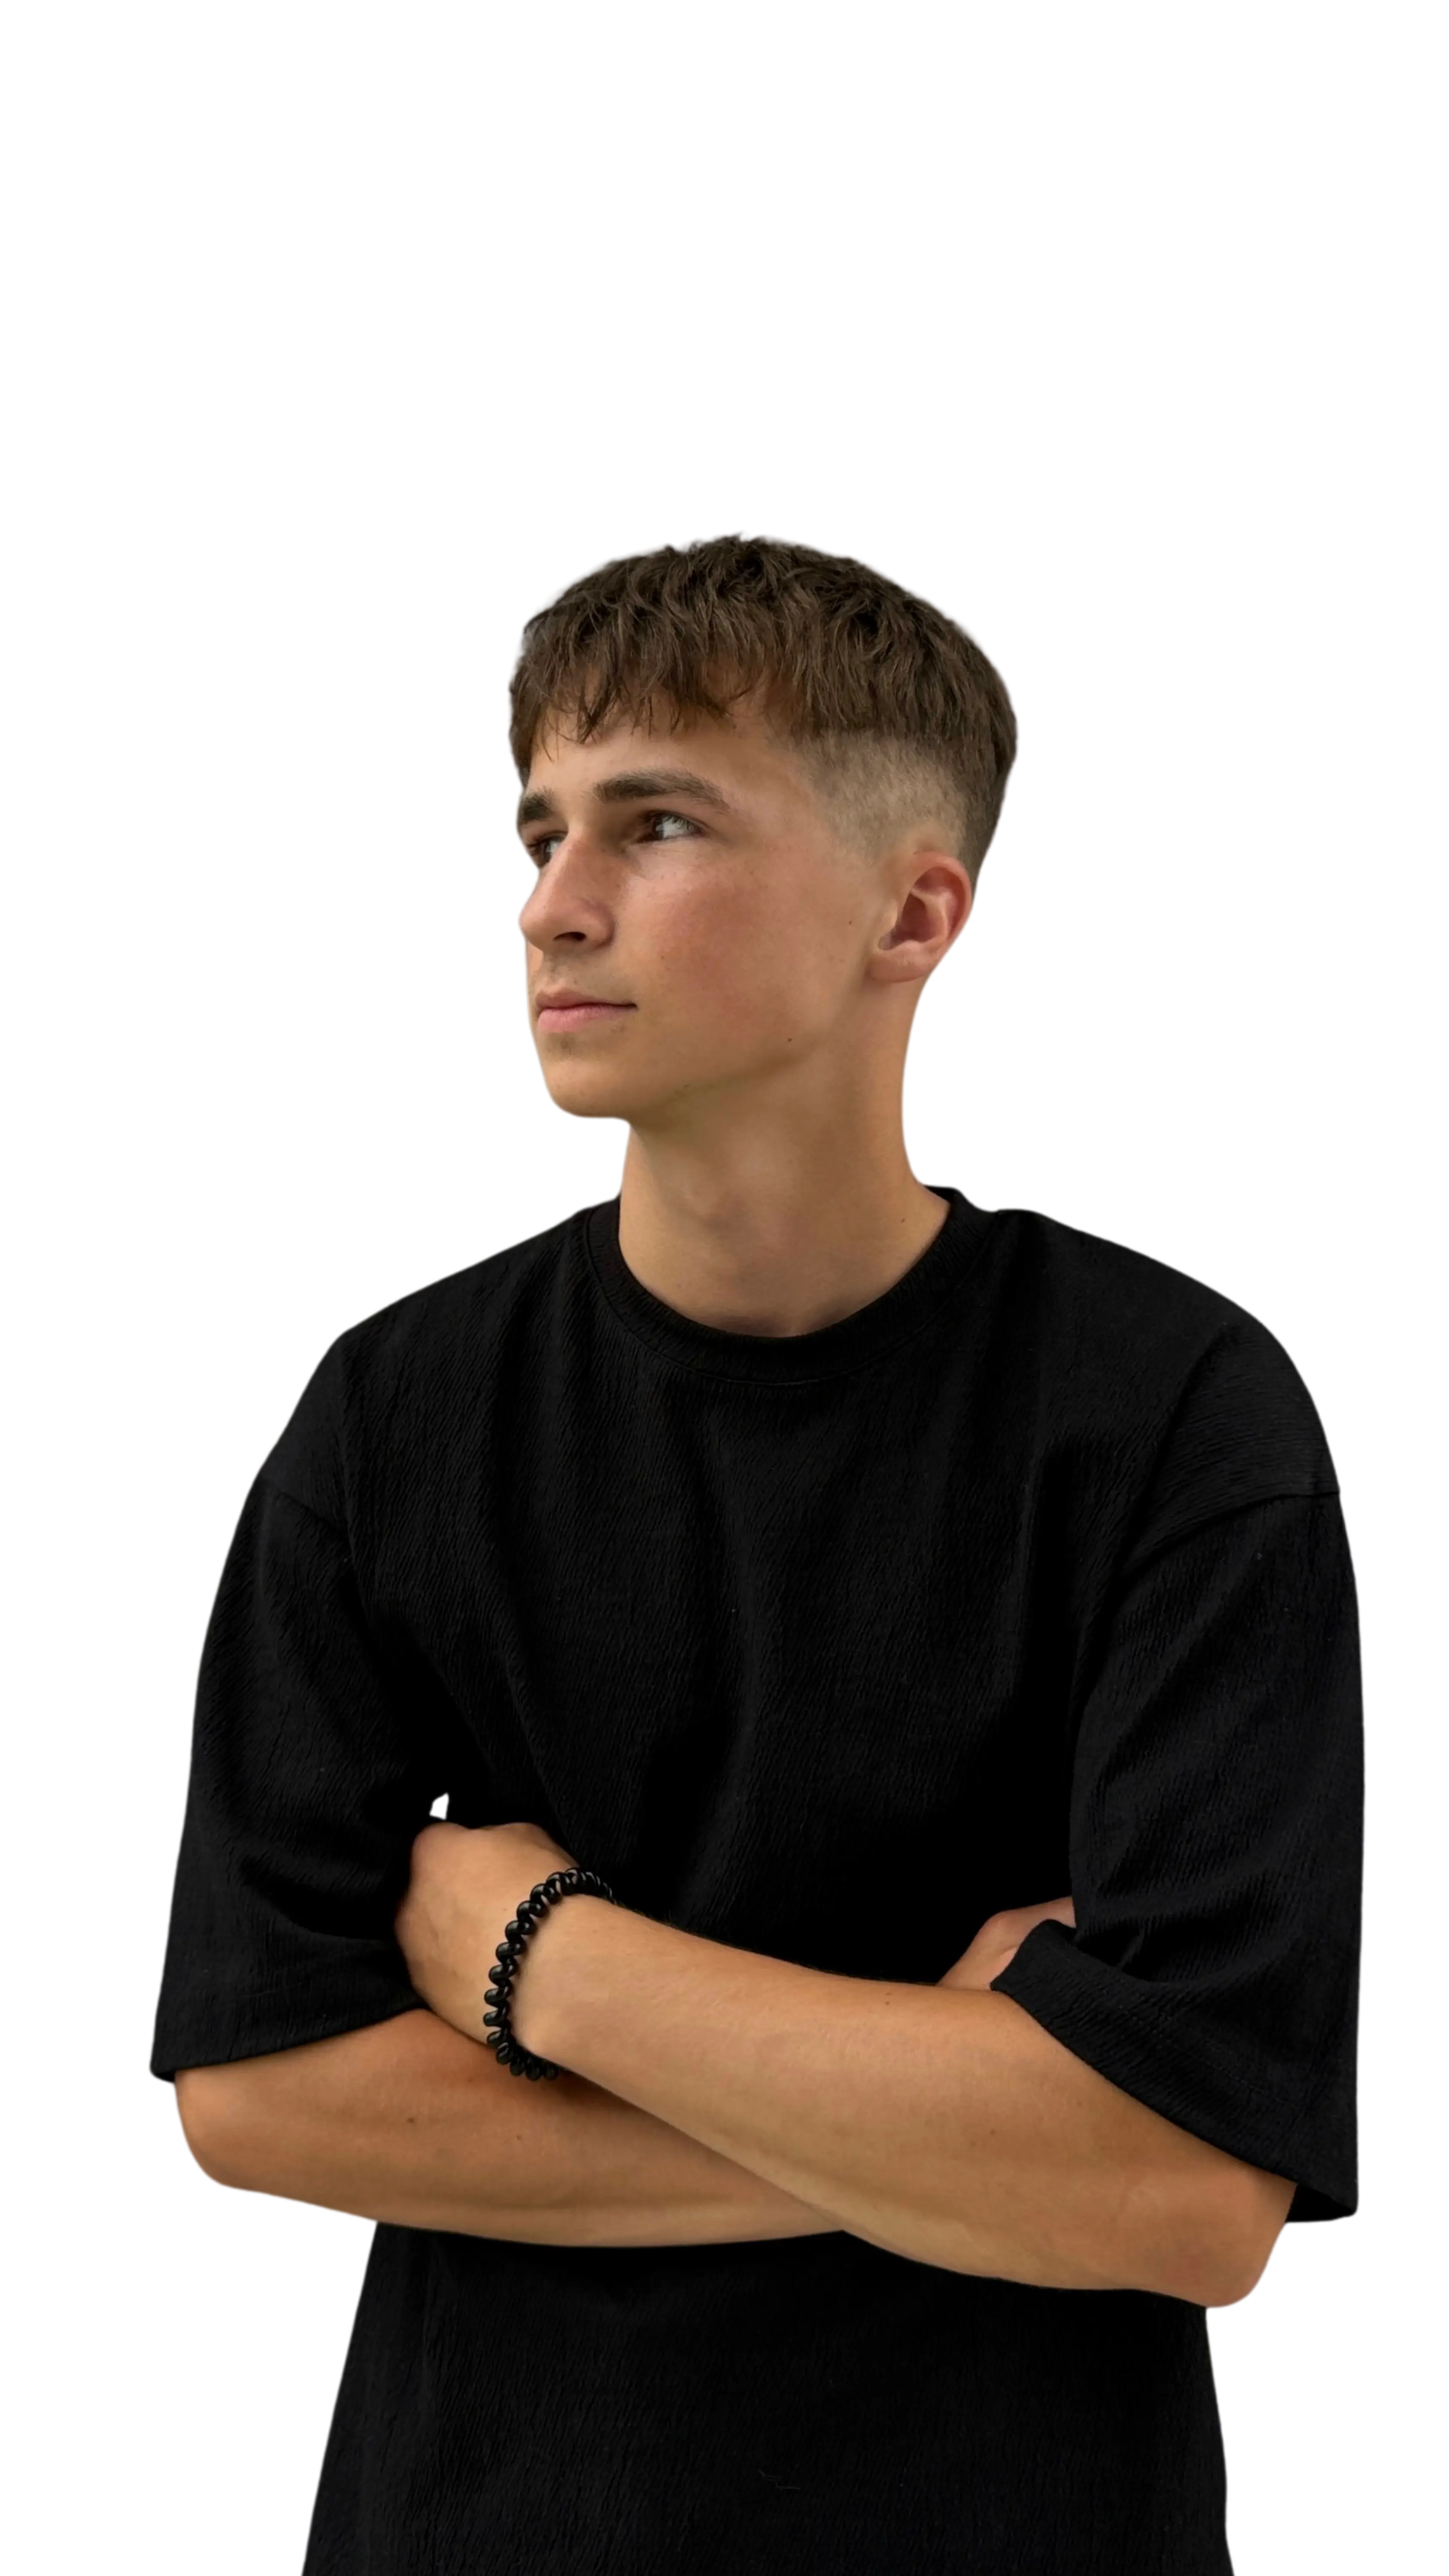
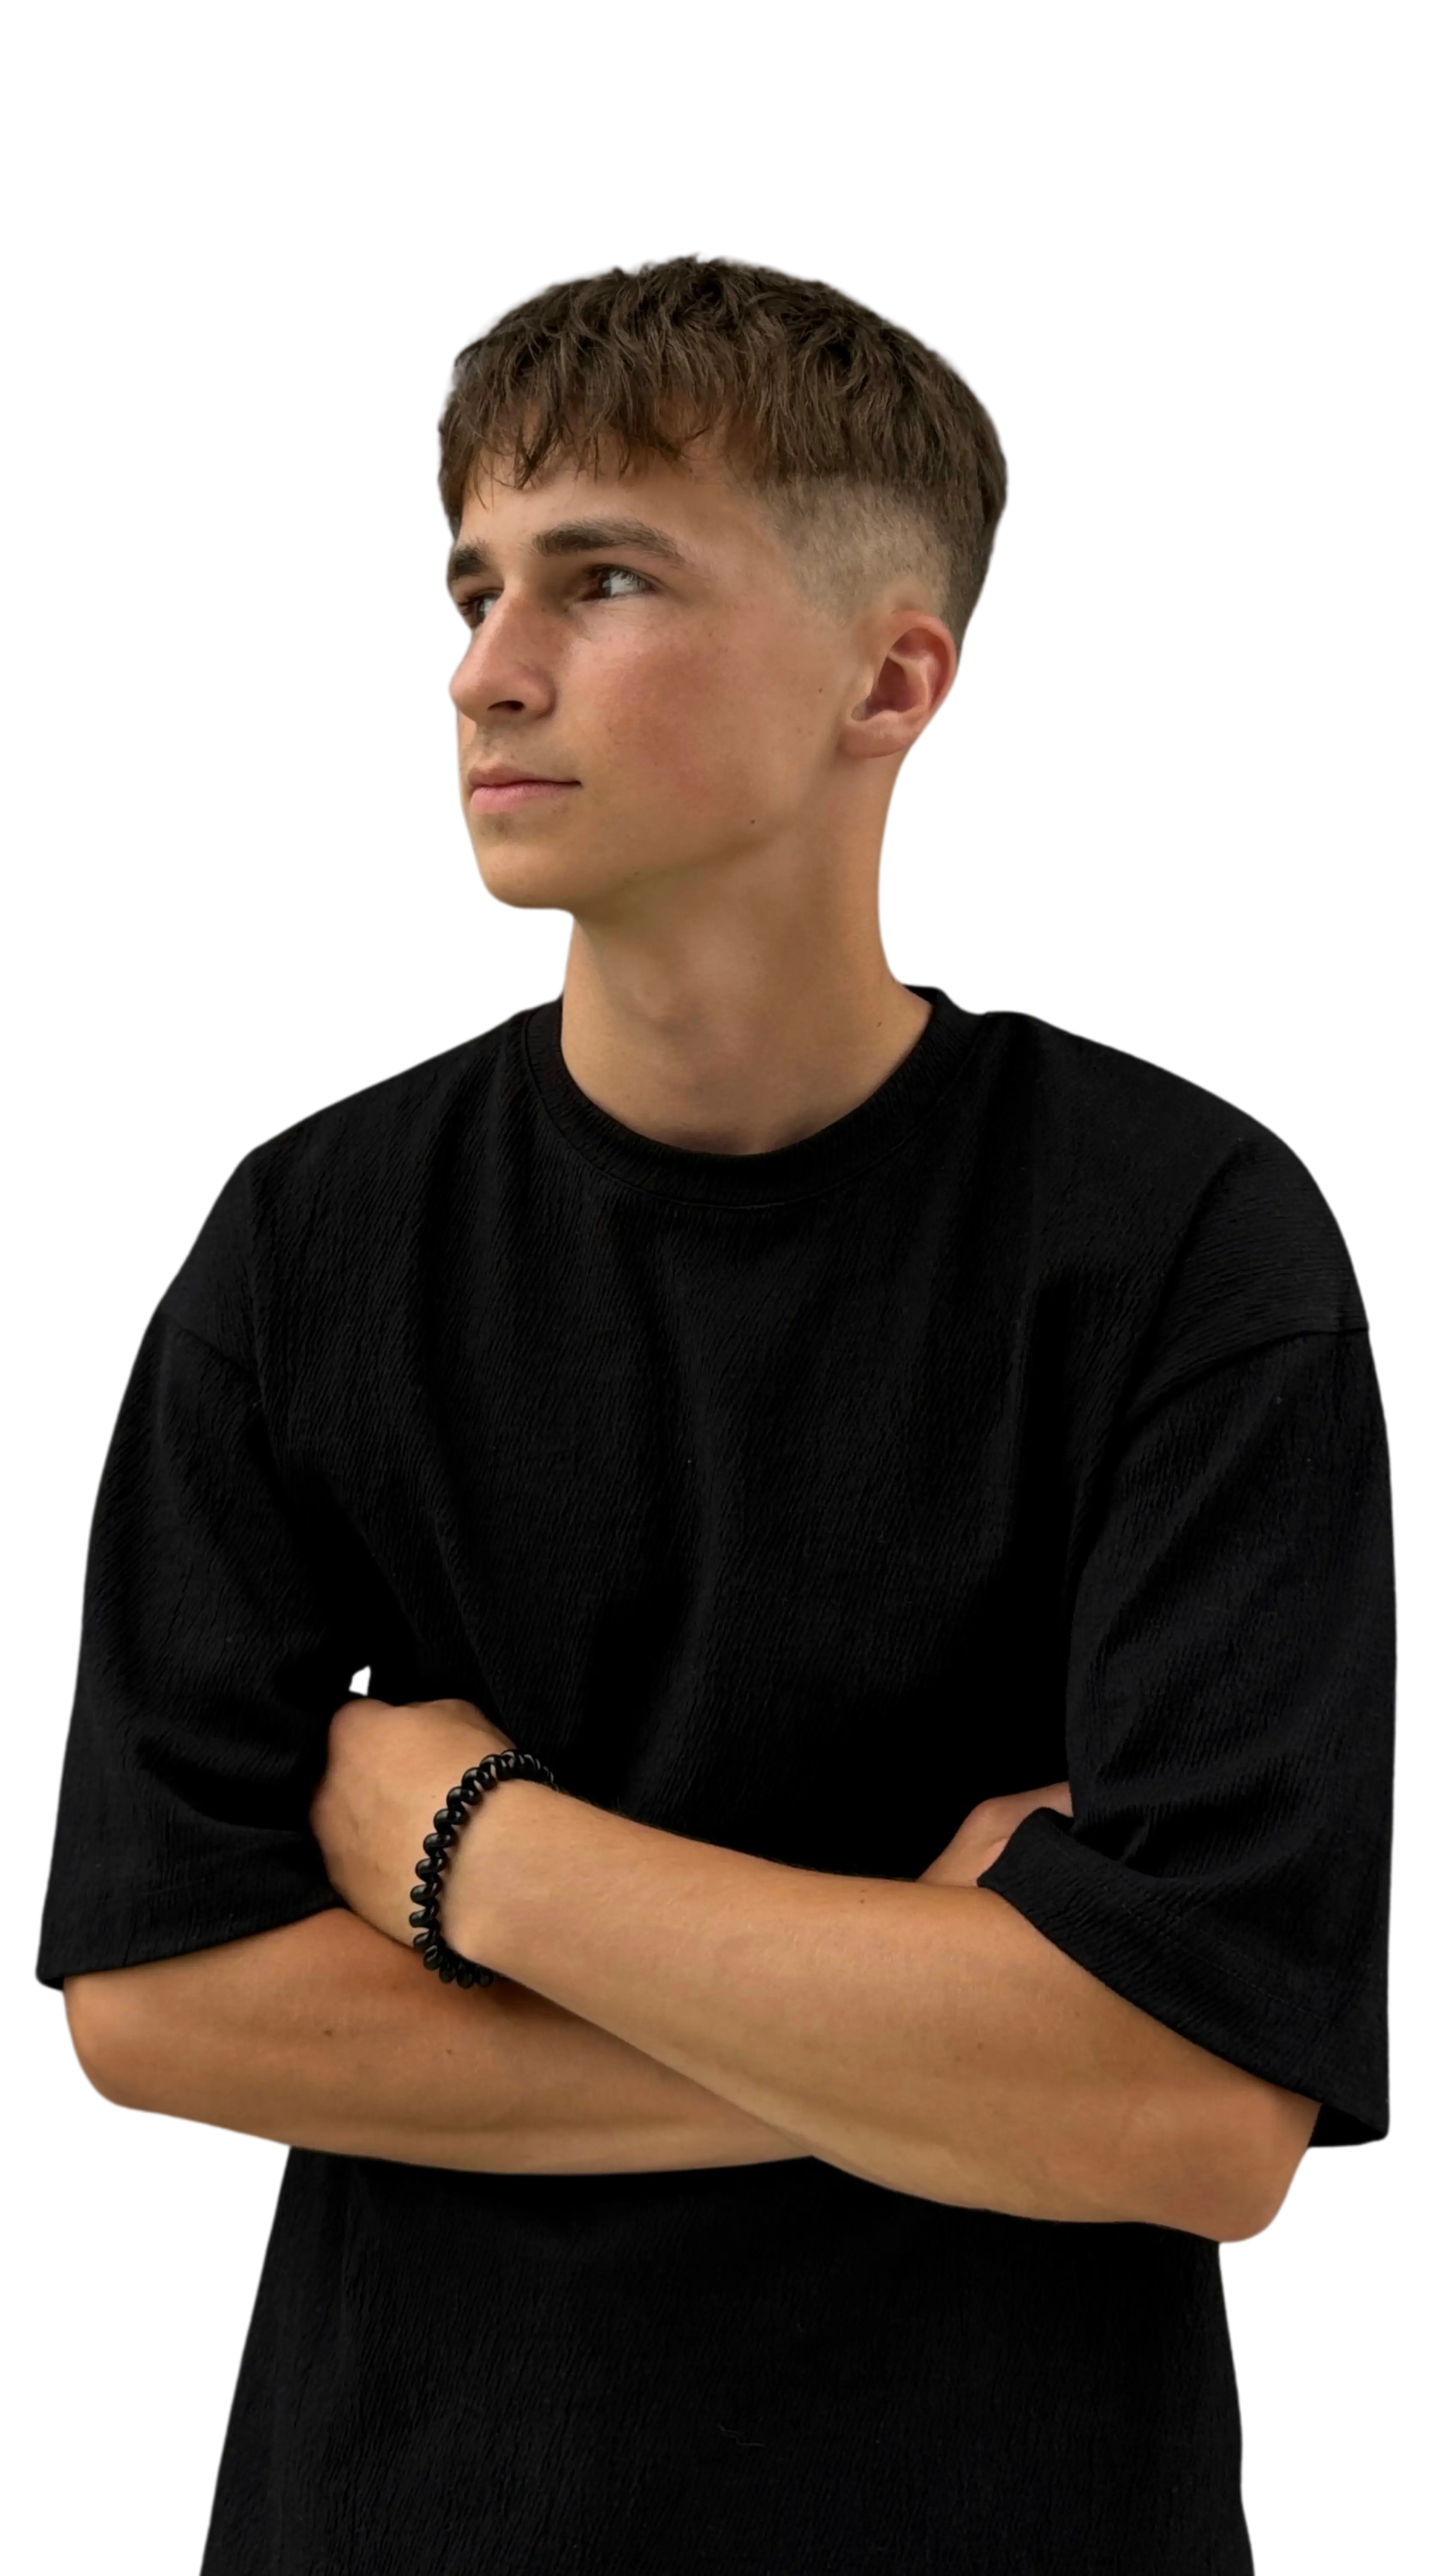
Resizing photo of character

Changed region(s): [[0.0, 0.0935, 0.9644, 1.0]]

diff --git a/components/hero.tsx b/components/hero.tsx
@@ -81,7 +81,7 @@ export function Hero() {
           </dl>
         </div>
 
-        <div className="relative hidden aspect-[9/16] w-full max-w-[35rem] overflow-hidden lg:block lg:justify-self-end">
+        <div className="relative hidden aspect-[9/16] w-full max-w-[32rem] overflow-hidden lg:block lg:justify-self-end">
           <Image
             src="/my-photo.webp"
             alt="Marian Vakulenko"
